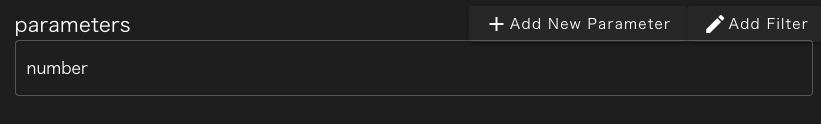
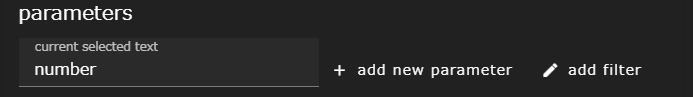
Reflect the content pointed out

diff --git a/documentMD/user_guide/_tutorial/2_advanced_tutorial/index.en.md b/documentMD/user_guide/_tutorial/2_advanced_tutorial/index.en.md
@@ -180,7 +180,7 @@ The left side of the screen is the same text editor as before, but the right sid
 
 ![img](./img/texteditor_with_ps_config.png "Scripts to Run in PS")
 
-First, click the __+ Add New Target File__ button at the top right of the screen.
+First, click the __+ add new target file__ button at the top right of the screen.
 The component tree screen appears, click __task0__. Type __run.sh__ for the file name and click the __OK__ button.
 
 ![img](./img/select_target_file.png "targetfile selection dialog")
@@ -190,22 +190,30 @@ The __parameters__ text box on the right side of the screen displays __number__.
 
 ![img](./img/select_parameter_field.png "Parameter substitution field selection state")
 
-In this state, you can click the __+ Add New Parameter__ button to set the parameter for __number__.
-For now, change the drop-down list to __list__ and enter three values: __foo__ __bar__ __baz__.
+In this state, you can click the __+ add new parameter__ button to set the parameter for __number__.
+<!--For now, change the drop-down list to __list__ and enter three values: __foo__ __bar__ __baz__.-->
+For now, change the drop-down list to __list__.
 
 ![img](./img/list_parameter_dialog.png "list parameter dialog")
 
+Next, set three values for __foo__ __bar__ __baz__. Type __foo__ in the text box and click the __+__ button. Follow the same steps to set __bar__ and __baz__.
 
-Finally, click the __SAVE__ button. The parameter settings for __number__ are registered.
+![img](./img/create_parameter.png "Creating Parameters")
+
+Finally, click the __OK__ button.
+
+![img](./img/created_parameters.png "After creating parameters")
+
+The parameter settings for __number__ are registered.
 The __number__ part of __run.sh__ is rewritten as __\{\{ number \}\}__.
 
 ![img](./img/texteditor_ps2.png "Text Editor at End of Edit")
 
 At runtime, this __\{\{ number \}\}__ is replaced by the actual parameters (foo, bar, baz) and executed respectively.
 
-Finally, click the __SAVE ALL FILES__ button at the top right of the screen to save your edits.
+Finally, click the __save all files__ button at the top right of the screen to save your edits.
 
-When you run the project, STDOUT displays foo, bar, and baz, respectively, as output from the echo command.
+When you run the project, stdout displays foo, bar, and baz, respectively, as output from the echo command.
 
 ![img](./img/result_ps.png "PS Execution Results")
 
